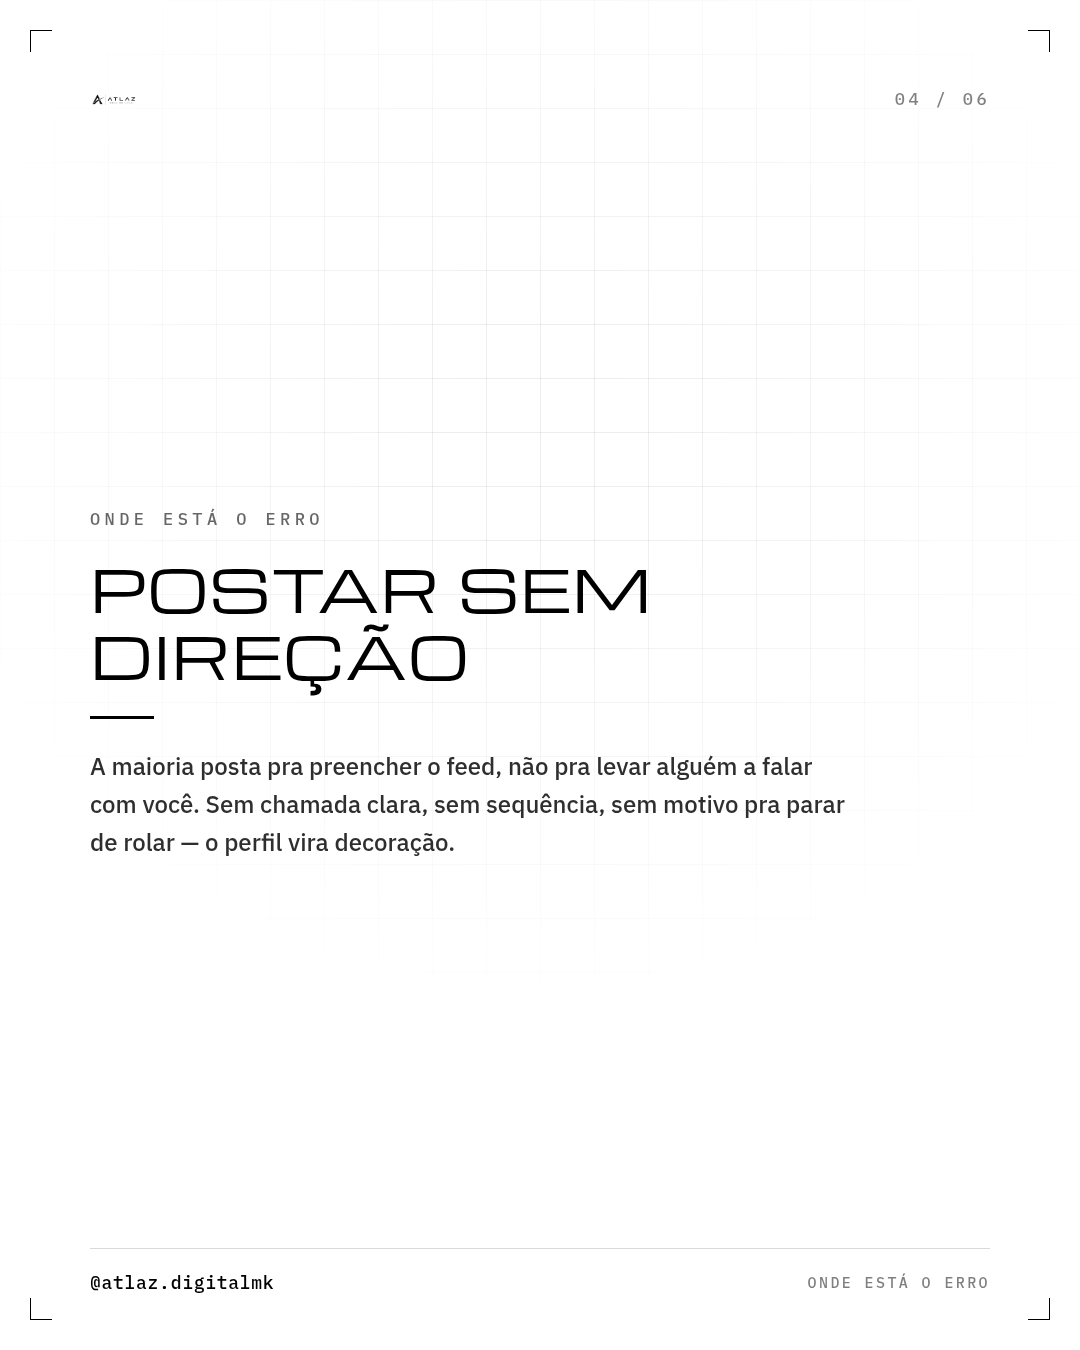
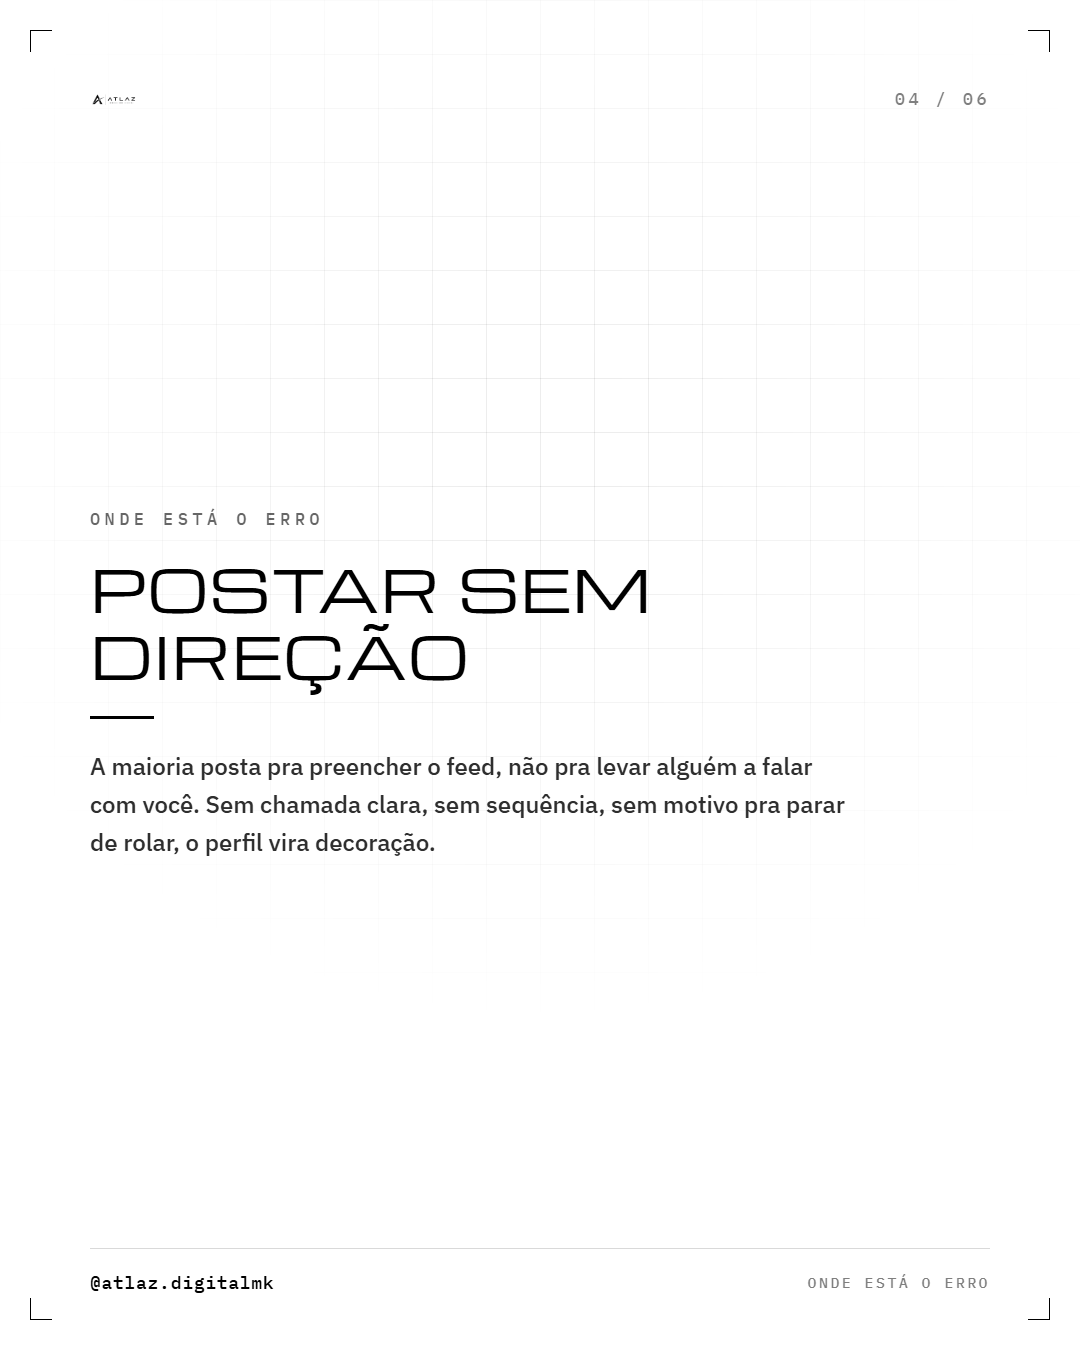
remove travessão dos textos gerados — evita cara de texto de IA
Regra salva em _memoria/preferencias.md pra valer nas próximas gerações
(a rotina automática já lê esse arquivo antes de escrever cada carrossel).

diff --git a/marketing/portfolio/index.html b/marketing/portfolio/index.html
@@ -338,7 +338,7 @@
       <div class="cta-row">
         <a class="btn" href="#contato">Falar com a Atlaz</a>
       </div>
-      <div class="price-note">Sem tabela de preço fixa — cada proposta nasce de uma conversa</div>
+      <div class="price-note">Sem tabela de preço fixa. Cada proposta nasce de uma conversa</div>
     </div>
   </section>
 
@@ -359,12 +359,12 @@
         <div class="waypoint">
           <div class="wp-tag">02 — CONSULTORIA</div>
           <h3>Consultoria</h3>
-          <p>Diagnóstico e acompanhamento de marketing digital — o que priorizar, o que ajustar, o que parar de fazer.</p>
+          <p>Diagnóstico e acompanhamento de marketing digital: o que priorizar, o que ajustar, o que parar de fazer.</p>
         </div>
         <div class="waypoint">
           <div class="wp-tag">03 — SOCIAL</div>
           <h3>Mídias</h3>
-          <p>Perfil com identidade aplicada, carrosséis e conteúdo prontos pra postar — sem você precisar abrir editor nenhum.</p>
+          <p>Perfil com identidade aplicada, carrosséis e conteúdo prontos pra postar. Sem você precisar abrir editor nenhum.</p>
         </div>
       </div>
     </div>
@@ -376,7 +376,7 @@
         <div class="eyebrow">Pra quem é</div>
         <h2>De MEI a empresa consolidada</h2>
       </div>
-      <p class="reveal">Atendemos <strong>MEI, ME e LTDA</strong> — de pequenas a grandes empresas — com foco em <strong>prestadores de serviço e negócios B2B</strong>. Se o seu objetivo é atrair mais clientes e a comunicação visual do seu negócio ainda não está à altura do que você entrega, essa é a oportunidade que faltava.</p>
+      <p class="reveal">Atendemos <strong>MEI, ME e LTDA</strong> (de pequenas a grandes empresas) com foco em <strong>prestadores de serviço e negócios B2B</strong>. Se o seu objetivo é atrair mais clientes e a comunicação visual do seu negócio ainda não está à altura do que você entrega, essa é a oportunidade que faltava.</p>
     </div>
   </section>
 
@@ -397,12 +397,12 @@
         <div class="rail-step reveal">
           <div class="rail-num">02</div>
           <h3>Proposta</h3>
-          <p>Nada de tabela fechada — a proposta é desenhada pro que o projeto pede.</p>
+          <p>Nada de tabela fechada. A proposta é desenhada pro que o projeto pede.</p>
         </div>
         <div class="rail-step reveal">
           <div class="rail-num">03</div>
           <h3>Execução</h3>
-          <p>Site, consultoria ou conteúdo — produzido e entregue no prazo combinado.</p>
+          <p>Site, consultoria ou conteúdo, produzido e entregue no prazo combinado.</p>
         </div>
         <div class="rail-step reveal">
           <div class="rail-num">04</div>
@@ -419,7 +419,7 @@
         <div class="eyebrow">Sobre</div>
         <h2>Uma pessoa só, do início ao fim</h2>
       </div>
-      <p class="reveal">A Atlaz é tocada por mim, Welton. Sem camada de atendimento entre você e quem faz — cada site, cada proposta, cada carrossel passa pela minha mão do começo ao fim.</p>
+      <p class="reveal">A Atlaz é tocada por mim, Welton. Sem camada de atendimento entre você e quem faz. Cada site, cada proposta, cada carrossel passa pela minha mão do começo ao fim.</p>
     </div>
   </section>
 
@@ -427,7 +427,7 @@
     <div class="wrap reveal">
       <div class="eyebrow">Contato</div>
       <h2>Vamos conversar sobre o seu negócio.</h2>
-      <p class="lede">Conta o que você faz e o que está travando o crescimento — a proposta sai dessa conversa.</p>
+      <p class="lede">Conta o que você faz e o que está travando o crescimento. A proposta sai dessa conversa.</p>
       <div class="contact-box">
         <a class="btn" href="https://wa.me/5569984549293" target="_blank" rel="noopener">Chamar no WhatsApp</a>
         <span class="contact-placeholder">+55 69 98454-9293</span>

diff --git a/marketing/conteudo/carrossel-instagram-nao-vende-2026-08-23/carrossel.html b/marketing/conteudo/carrossel-instagram-nao-vende-2026-08-23/carrossel.html
@@ -194,7 +194,7 @@
     <div class="num-giant">01</div>
     <h2 class="num-h2">Ter perfil<br>não é vender</h2>
     <div class="rule"></div>
-    <div class="num-body">Você posta toda semana, tem seguidores, mas as mensagens não chegam. Presença e venda são coisas diferentes — uma não garante a outra.</div>
+    <div class="num-body">Você posta toda semana, tem seguidores, mas as mensagens não chegam. Presença e venda são coisas diferentes. Uma não garante a outra.</div>
   </div>
   <div class="footer">
     <div>@atlaz.digitalmk</div>
@@ -215,7 +215,7 @@
     <div class="num-giant">02</div>
     <h2 class="num-h2">O cliente<br>passa direto</h2>
     <div class="rule"></div>
-    <div class="num-body">Ele entra no seu perfil, olha os posts, sai sem mandar mensagem. Você nem fica sabendo que perdeu esse contato — só sente que o negócio não anda.</div>
+    <div class="num-body">Ele entra no seu perfil, olha os posts, sai sem mandar mensagem. Você nem fica sabendo que perdeu esse contato, só sente que o negócio não anda.</div>
   </div>
   <div class="footer">
     <div>@atlaz.digitalmk</div>
@@ -236,7 +236,7 @@
     <div class="eyebrow">Onde está o erro</div>
     <h2 class="quem-h2">Postar sem<br>direção</h2>
     <div class="rule"></div>
-    <div class="quem-body">A maioria posta pra preencher o feed, não pra levar alguém a falar com você. Sem chamada clara, sem sequência, sem motivo pra parar de rolar — o perfil vira decoração.</div>
+    <div class="quem-body">A maioria posta pra preencher o feed, não pra levar alguém a falar com você. Sem chamada clara, sem sequência, sem motivo pra parar de rolar, o perfil vira decoração.</div>
   </div>
   <div class="footer">
     <div>@atlaz.digitalmk</div>
@@ -257,7 +257,7 @@
     <div class="eyebrow">Como resolvemos</div>
     <h2 class="quem-h2">Conteúdo com<br>propósito</h2>
     <div class="rule"></div>
-    <div class="quem-body">Cada post pensado pra gerar contato, não só curtida. Diagnóstico da sua presença hoje, plano do que ajustar e mídia social pronta pra postar — com foco em fazer o cliente chamar.</div>
+    <div class="quem-body">Cada post pensado pra gerar contato, não só curtida. Diagnóstico da sua presença hoje, plano do que ajustar e mídia social pronta pra postar, com foco em fazer o cliente chamar.</div>
   </div>
   <div class="footer">
     <div>@atlaz.digitalmk</div>

diff --git a/marketing/conteudo/carrossel-apresentacao-atlaz-2026-08-23/carrossel.html b/marketing/conteudo/carrossel-apresentacao-atlaz-2026-08-23/carrossel.html
@@ -194,7 +194,7 @@
     <div class="num-giant">01</div>
     <h2 class="num-h2">Sites</h2>
     <div class="rule"></div>
-    <div class="num-body">Um site que mostra o seu trabalho e facilita o contato — sem página lenta, sem enrolação, sem coisa que ninguém usa.</div>
+    <div class="num-body">Um site que mostra o seu trabalho e facilita o contato, sem página lenta, sem enrolação, sem coisa que ninguém usa.</div>
   </div>
   <div class="footer">
     <div>@atlaz.digitalmk</div>
@@ -215,7 +215,7 @@
     <div class="num-giant">02</div>
     <h2 class="num-h2">Consultoria</h2>
     <div class="rule"></div>
-    <div class="num-body">Diagnóstico da sua presença digital hoje e um plano prático do que ajustar primeiro — sem fórmula pronta.</div>
+    <div class="num-body">Diagnóstico da sua presença digital hoje e um plano prático do que ajustar primeiro. Sem fórmula pronta.</div>
   </div>
   <div class="footer">
     <div>@atlaz.digitalmk</div>
@@ -236,7 +236,7 @@
     <div class="num-giant">03</div>
     <h2 class="num-h2">Mídia social</h2>
     <div class="rule"></div>
-    <div class="num-body">Carrosséis, publicações e legendas prontos pra postar — pensados pra cada rede, não só repetidos de um lado pro outro. Você continua atendendo seu cliente, a gente cuida da sua presença.</div>
+    <div class="num-body">Carrosséis, publicações e legendas prontos pra postar, pensados pra cada rede, não só repetidos de um lado pro outro. Você continua atendendo seu cliente, a gente cuida da sua presença.</div>
   </div>
   <div class="footer">
     <div>@atlaz.digitalmk</div>

diff --git a/marketing/conteudo/carrossel-instagram-nao-vende-2026-08-23/render.js b/marketing/conteudo/carrossel-instagram-nao-vende-2026-08-23/render.js
@@ -1,11 +1,12 @@
 const { chromium } = require('playwright');
+const fs = require('fs');
 const path = require('path');
 
 (async () => {
-  const browser = await chromium.launch({
-    executablePath: '/opt/pw-browsers/chromium-1194/chrome-linux/chrome',
-    args: ['--disable-lcd-text', '--font-render-hinting=none'],
-  });
+  const sandboxChromium = '/opt/pw-browsers/chromium-1194/chrome-linux/chrome';
+  const launchOpts = { args: ['--disable-lcd-text', '--font-render-hinting=none'] };
+  if (fs.existsSync(sandboxChromium)) launchOpts.executablePath = sandboxChromium;
+  const browser = await chromium.launch(launchOpts);
   const page = await browser.newPage({ viewport: { width: 1080, height: 1350 } });
   await page.goto('file://' + path.resolve(__dirname, 'carrossel.html'));
   await page.evaluate(() => document.fonts.ready);

diff --git a/marketing/conteudo/carrossel-instagram-nao-vende-2026-08-23/legenda.md b/marketing/conteudo/carrossel-instagram-nao-vende-2026-08-23/legenda.md
@@ -1,12 +1,12 @@
 # Legenda — Seu Instagram não vende (Instagram + Facebook)
 
-Seu Instagram tem posts, seguidores, é ativo — e mesmo assim o cliente não chama. Já reparou nisso?
+Seu Instagram tem posts, seguidores, é ativo. Mesmo assim o cliente não chama. Já reparou nisso?
 
-Ter perfil não é o mesmo que vender por ele. A maioria posta pra preencher o feed, não pra levar alguém a mandar mensagem. Sem chamada clara, sem sequência, sem motivo pra parar de rolar, o perfil vira decoração — e o cliente passa direto sem você nem ficar sabendo.
+Ter perfil não é o mesmo que vender por ele. A maioria posta pra preencher o feed, não pra levar alguém a mandar mensagem. Sem chamada clara, sem sequência, sem motivo pra parar de rolar, o perfil vira decoração, e o cliente passa direto sem você nem ficar sabendo.
 
 Arraste pro lado e entenda onde está o erro.
 
-A Atlaz faz o diagnóstico da sua presença hoje e monta conteúdo com propósito — pensado pra gerar contato, não só curtida. Fala com a gente pelo WhatsApp: +55 69 98454-9293.
+A Atlaz faz o diagnóstico da sua presença hoje e monta conteúdo com propósito, pensado pra gerar contato, não só curtida. Fala com a gente pelo WhatsApp: +55 69 98454-9293.
 
 #marketingdigital #instagramparanegocios #midiasocial #conteudoquevende #consultoriademarketing #prestadoresdeservico #pequenosnegocios #mei #empreendedorismo #instagramprofissional #estrategiadigital #negociosb2b
 
@@ -18,6 +18,6 @@ Ter Instagram ativo não é o mesmo que vender por ele. Muitos negócios postam 
 
 O erro costuma estar na falta de direção: conteúdo sem chamada clara, sem sequência, sem motivo pra gerar mensagem.
 
-A Atlaz Marketing Digital faz o diagnóstico da presença digital do seu negócio e entrega mídia social pronta com foco em contato real com o cliente — não só estética.
+A Atlaz Marketing Digital faz o diagnóstico da presença digital do seu negócio e entrega mídia social pronta com foco em contato real com o cliente, não só estética.
 
 Contato: WhatsApp +55 69 98454-9293 | Instagram @atlaz.digitalmk

diff --git a/marketing/conteudo/carrossel-apresentacao-atlaz-2026-08-23/legenda.md b/marketing/conteudo/carrossel-apresentacao-atlaz-2026-08-23/legenda.md
@@ -2,11 +2,11 @@
 
 Site completo, Instagram parado e cliente que não te acha fácil? A gente resolve isso.
 
-A Atlaz existe pra quem presta serviço e precisa de mais contato de verdade com o cliente — não de mais enfeite. Página web, consultoria de marketing digital e mídia social pronta (carrosséis, publicações e legendas), tudo pensado pro seu negócio.
+A Atlaz existe pra quem presta serviço e precisa de mais contato de verdade com o cliente, não de mais enfeite. Página web, consultoria de marketing digital e mídia social pronta (carrosséis, publicações e legendas), tudo pensado pro seu negócio.
 
 Arraste pro lado e veja como funciona.
 
-Atendimento direto, sem fórmula pronta — cada projeto negociado conforme a necessidade. Fala com a gente pelo WhatsApp: +55 69 98454-9293.
+Atendimento direto, sem fórmula pronta. Cada projeto negociado conforme a necessidade. Fala com a gente pelo WhatsApp: +55 69 98454-9293.
 
 #marketingdigital #agenciadigital #midiasocial #conteudopronto #consultoriademarketing #sitesprofissionais #prestadoresdeservico #pequenosnegocios #mei #empreendedorismo #negociosb2b #comunicacaovisual
 
@@ -16,7 +16,7 @@ Atendimento direto, sem fórmula pronta — cada projeto negociado conforme a ne
 
 A Atlaz Marketing Digital atende prestadores de serviço e negócios B2B (MEI, ME e LTDA) que precisam melhorar a comunicação visual e o contato com o cliente.
 
-Três frentes de trabalho: página web, consultoria de marketing digital e mídia social pronta — carrosséis, publicações e legendas prontos pra postar.
+Três frentes de trabalho: página web, consultoria de marketing digital e mídia social pronta (carrosséis, publicações e legendas prontos pra postar).
 
 Sem fórmula pronta: cada projeto é negociado conforme a necessidade do negócio.
 

diff --git a/marketing/conteudo/carrossel-5-erros-instagram-prestador-2026-08-23/legenda.md b/marketing/conteudo/carrossel-5-erros-instagram-prestador-2026-08-23/legenda.md
@@ -2,10 +2,10 @@
 
 Seu Instagram tem seguidor, mas o telefone não toca? O problema pode estar em detalhes simples que passam batido no dia a dia.
 
-Separamos 5 erros que aparecem direto em perfil de prestador de serviço — e que custam cliente sem o dono nem perceber: bio sem contato claro, falta de frequência, mostrar só o resultado pronto, demora pra responder e nenhuma prova do trabalho.
+Separamos 5 erros que aparecem direto em perfil de prestador de serviço e que custam cliente sem o dono nem perceber: bio sem contato claro, falta de frequência, mostrar só o resultado pronto, demora pra responder e nenhuma prova do trabalho.
 
 Arraste pro lado e veja se algum desses está no seu perfil.
 
-Se dois ou mais bateram, dá pra ajustar. A Atlaz cuida da mídia social pronta pra prestador de serviço — carrosséis, publicações e legendas pensados pra gerar contato de verdade, não só curtida. Fala com a gente pelo WhatsApp: +55 69 98454-9293.
+Se dois ou mais bateram, dá pra ajustar. A Atlaz cuida da mídia social pronta pra prestador de serviço: carrosséis, publicações e legendas pensados pra gerar contato de verdade, não só curtida. Fala com a gente pelo WhatsApp: +55 69 98454-9293.
 
 #marketingdigital #instagramparanegocios #midiasocial #prestadoresdeservico #pequenosnegocios #mei #dicasdeinstagram #agenciadigital #conteudopronto #atendimentoaocliente #empreendedorismo #negociosb2b #comunicacaovisual #consultoriademarketing

diff --git a/_memoria/preferencias.md b/_memoria/preferencias.md
@@ -14,6 +14,7 @@ poucos conforme o Welton for dando feedback sobre textos produzidos.
 - Jargão de guru da internet ("alavancar", "sinergia" e afins)
 - Enfeitar demais o texto
 - Emojis
+- Travessão (—) pra separar ideias na frase — dá cara de texto feito por IA. Preferir ponto final, vírgula ou dois-pontos pra ligar as ideias
 
 ## Estilo geral
 
